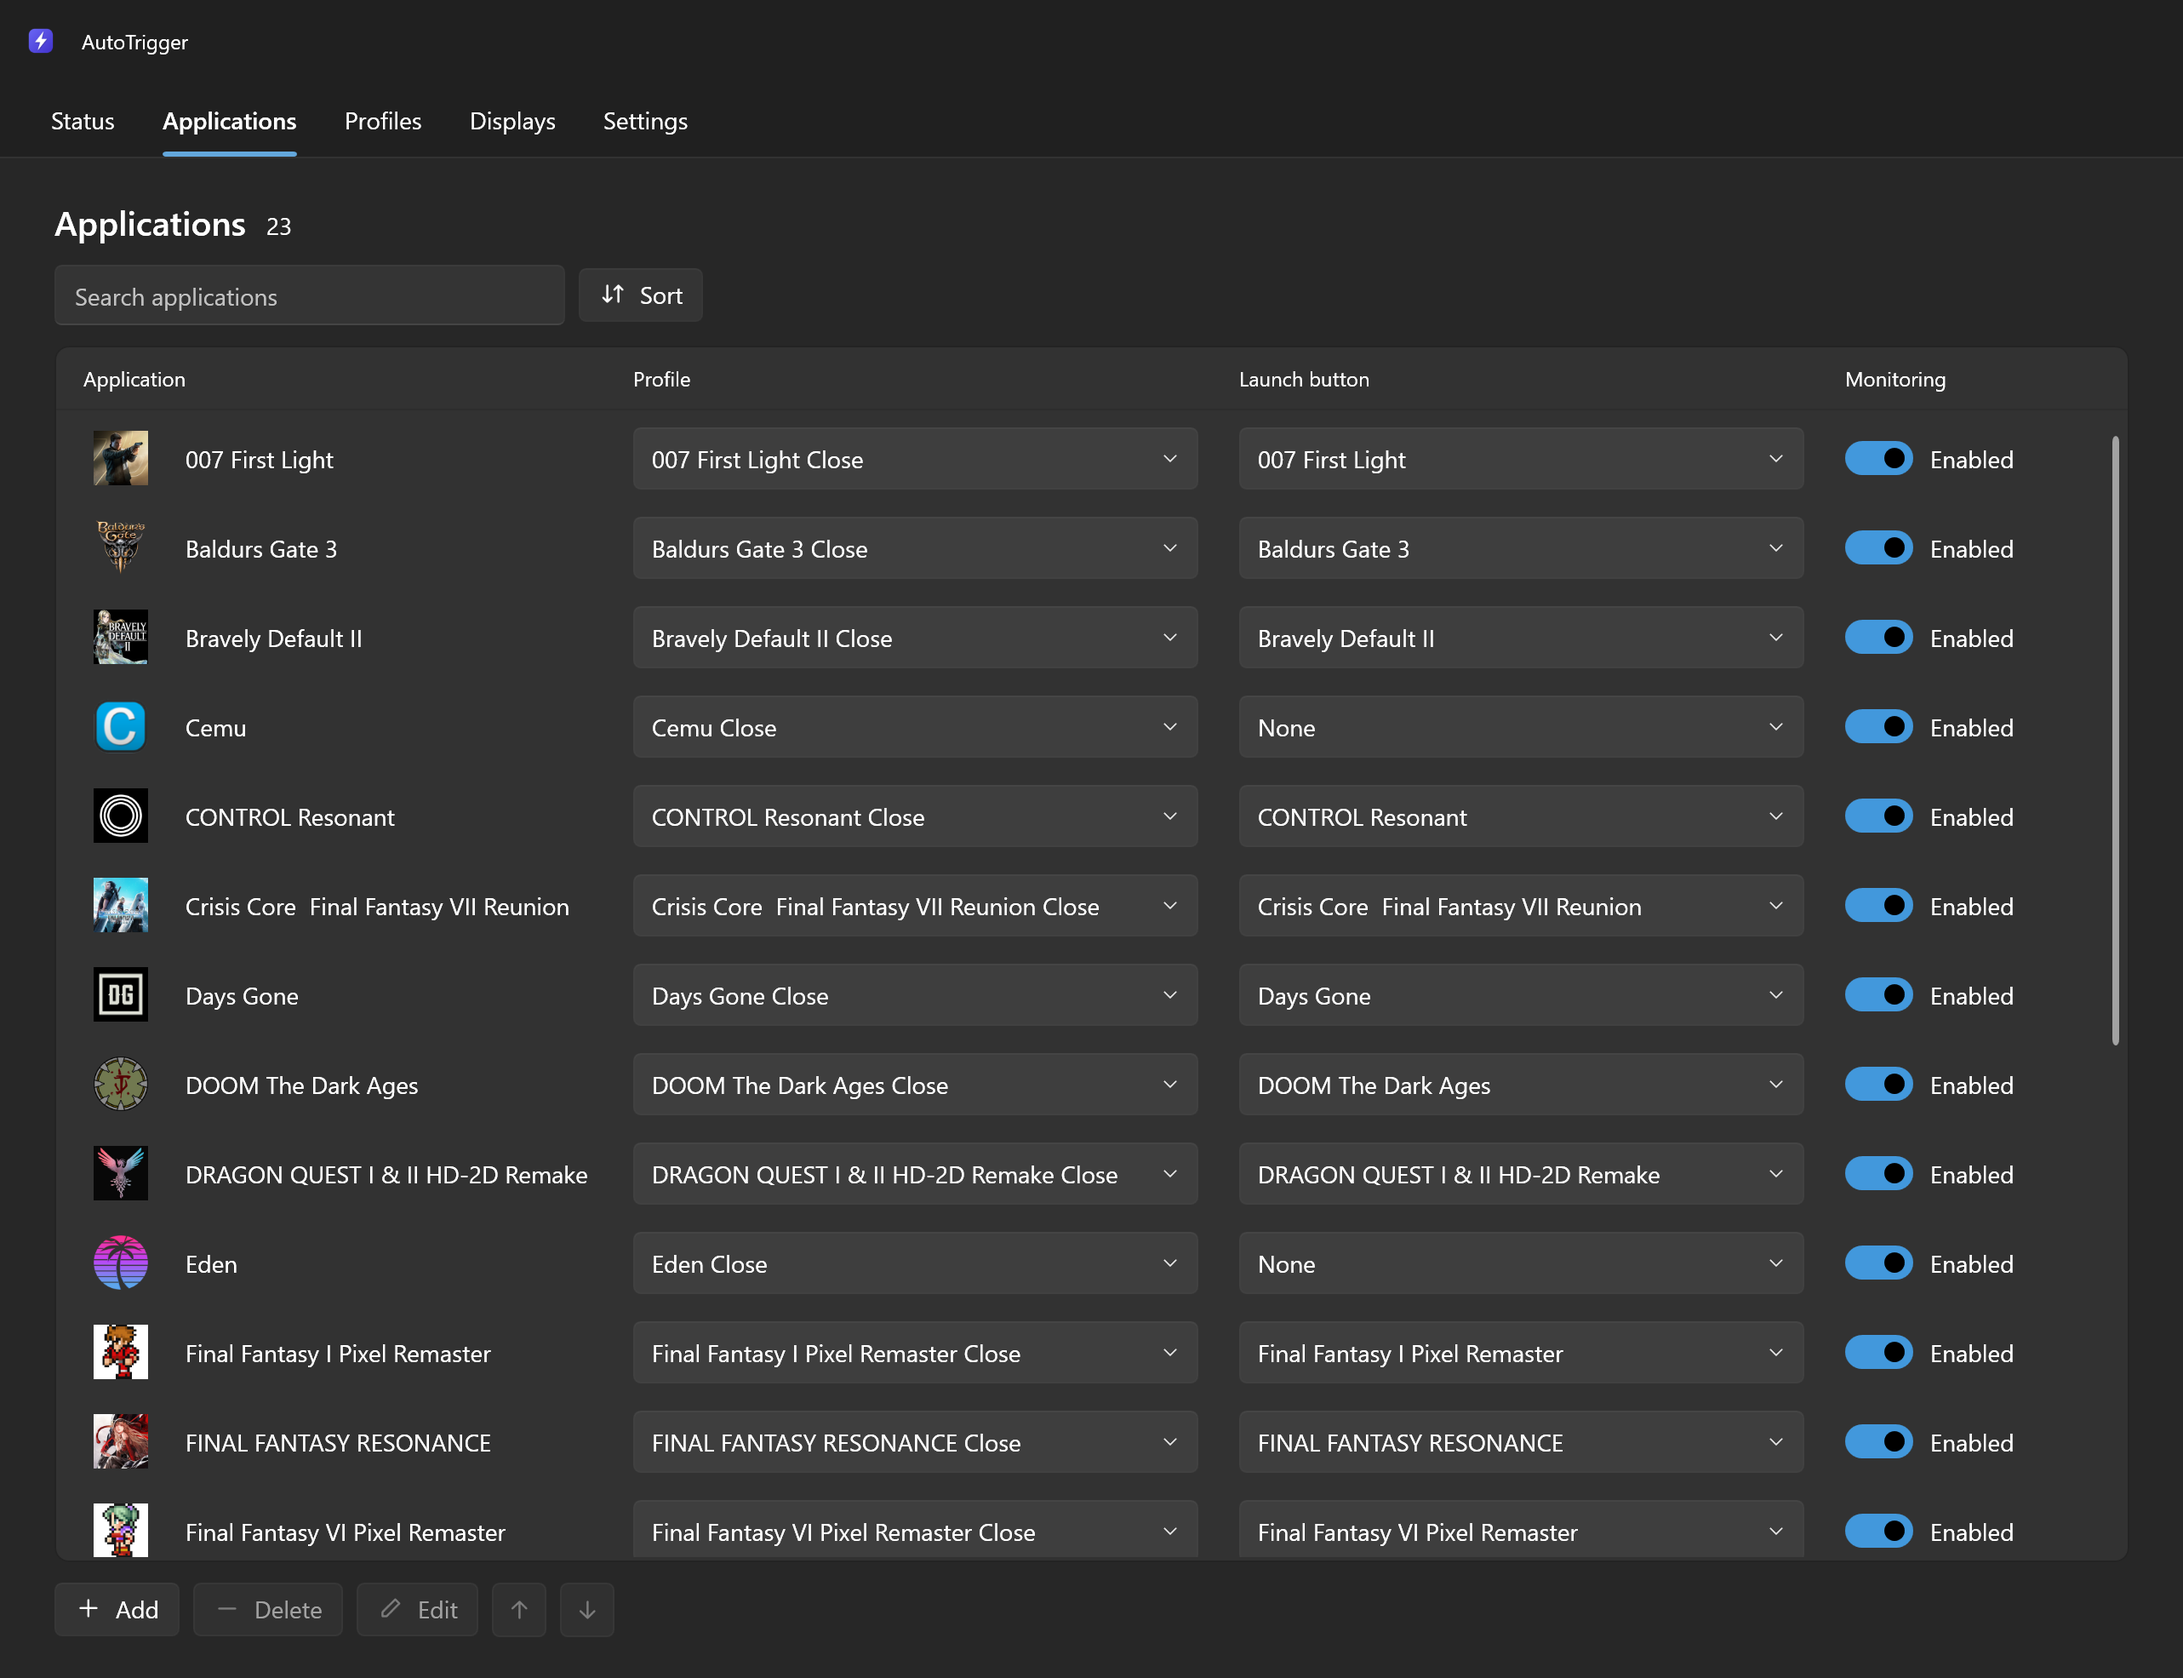
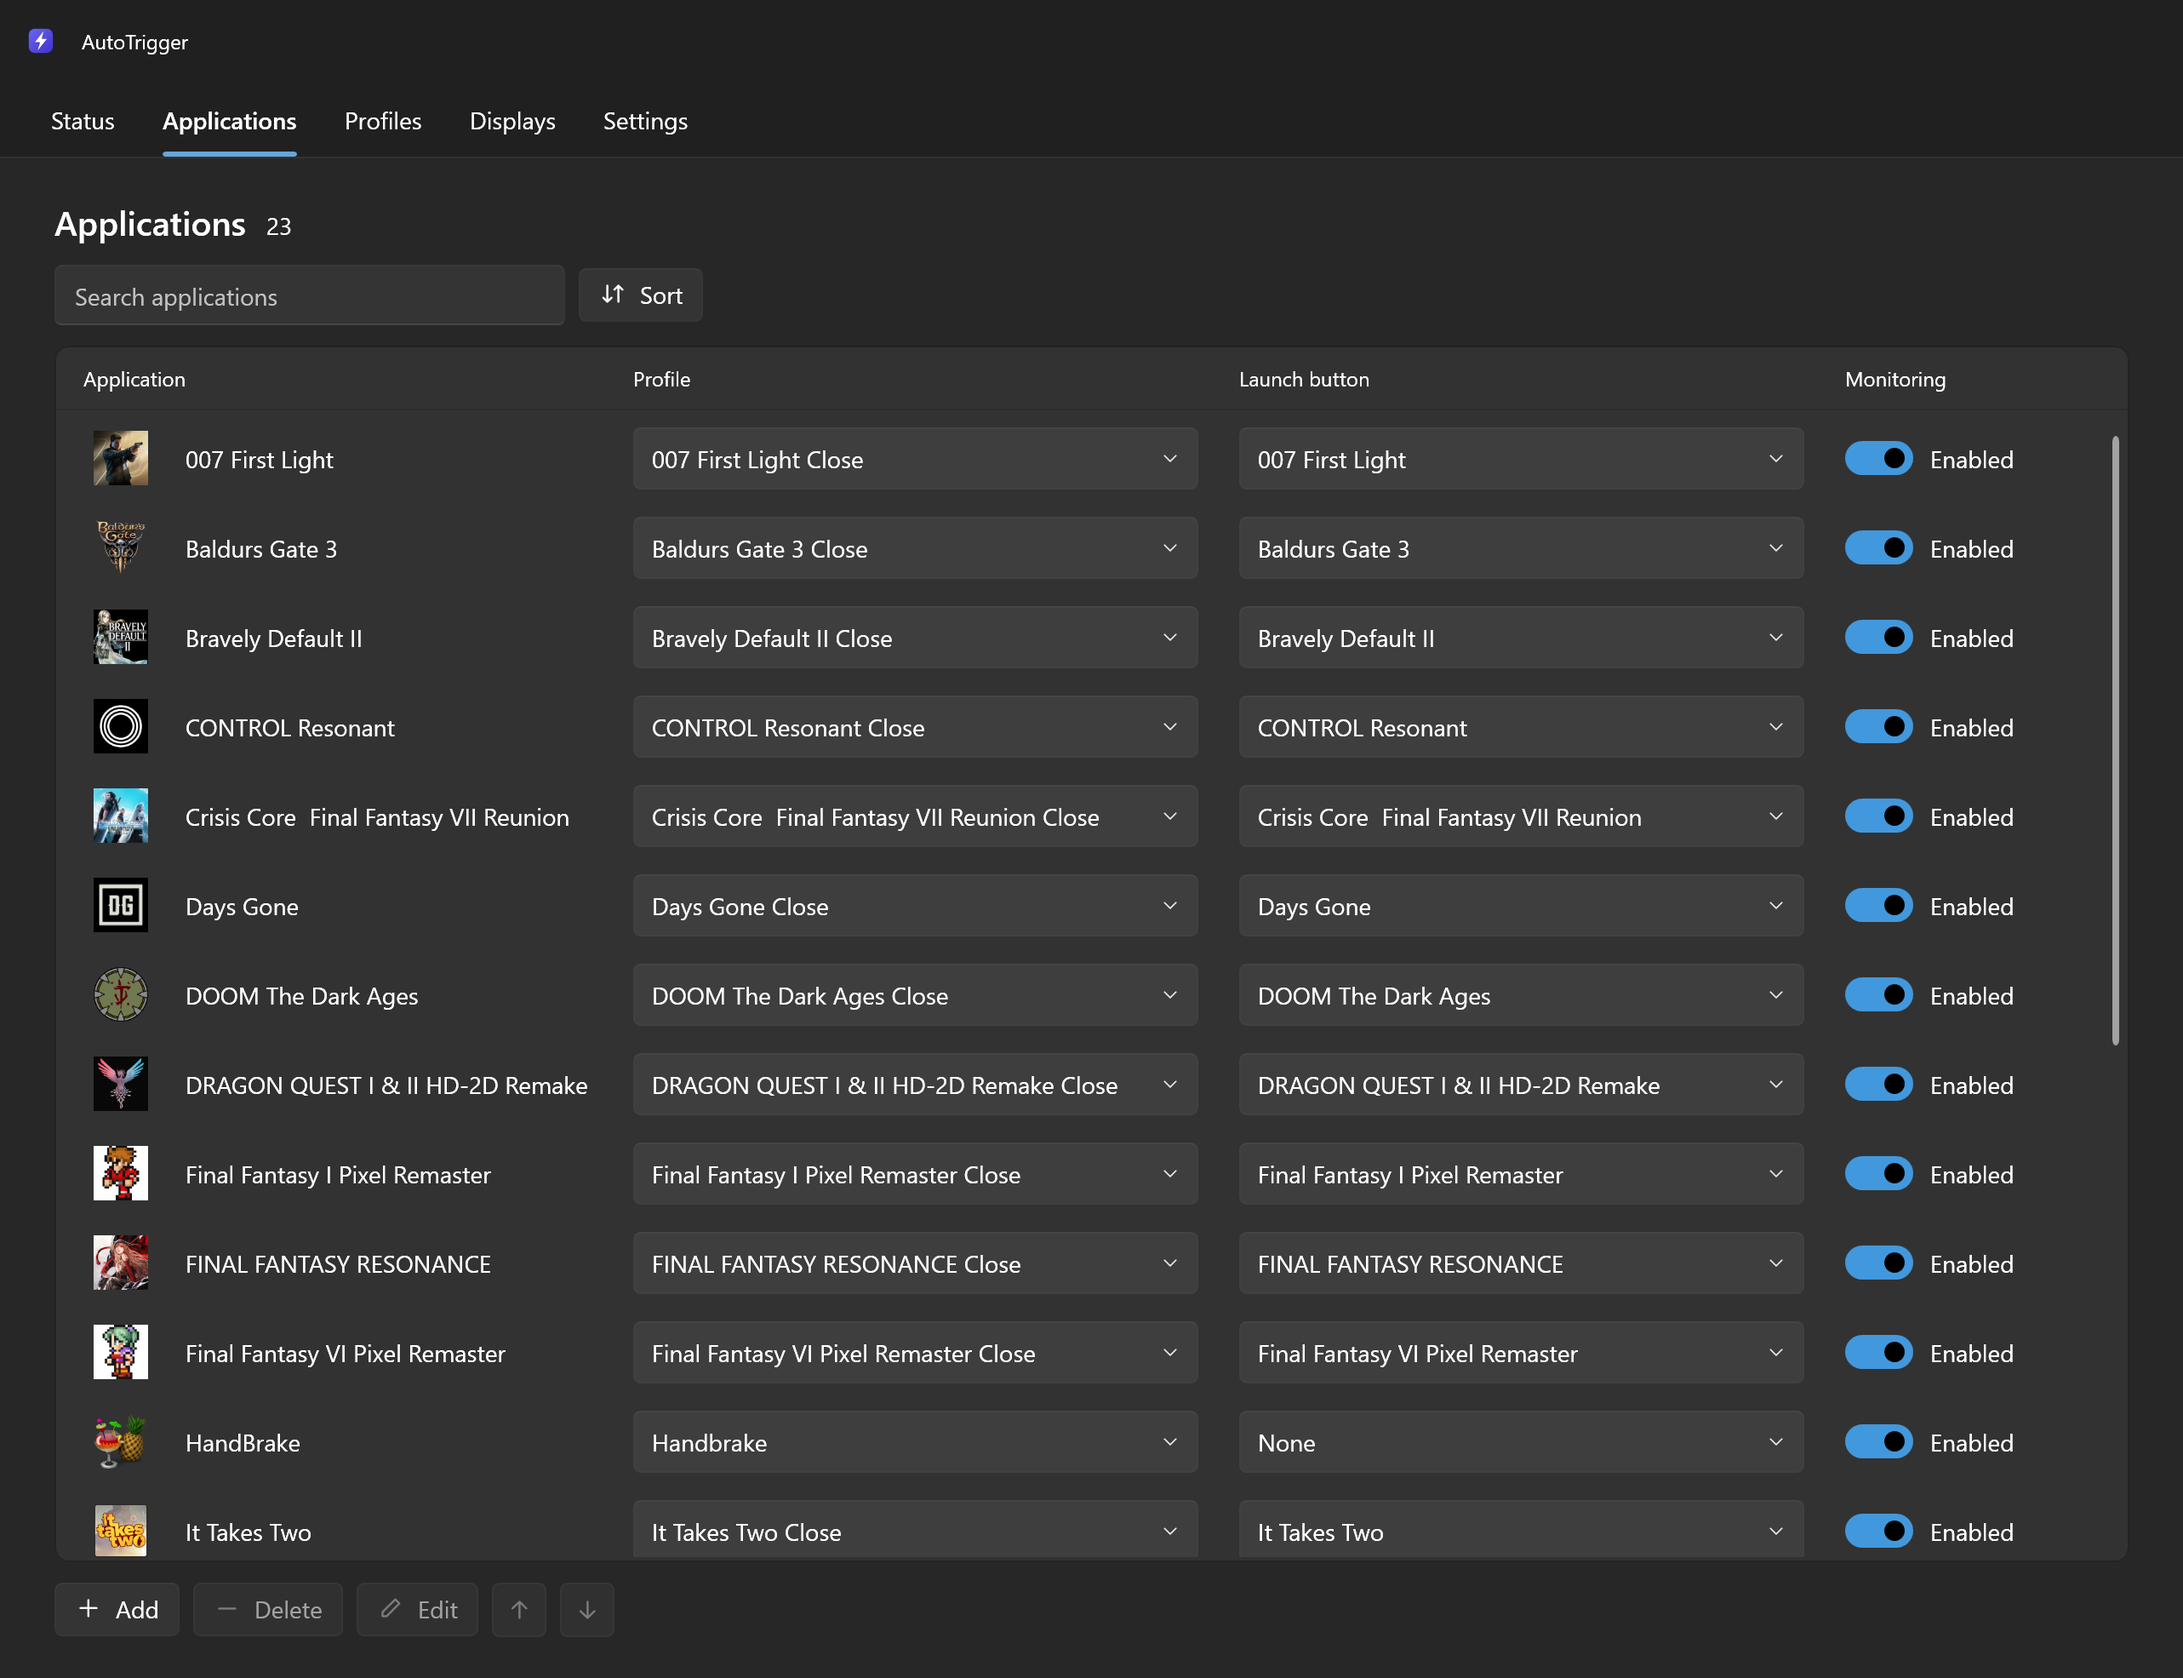
README: refresh screenshots and wording

diff --git a/README.md b/README.md
@@ -20,7 +20,7 @@ AutoTrigger is a free, open-source tray app that changes Windows settings when a
 - Change settings when an app gains the focus, and set them back when you switch to another window.
 - Press a keyboard shortcut of another app when a game starts, for example to switch a mode in an overlay or a recording app.
 - Run the actions of a profile on demand, from a keyboard shortcut, a desktop shortcut or the Status page, without waiting for an app to start.
-- Start a game from the Status page through a profile, for example an emulator with the game and the right display settings.
+- Start a game from the Status page through a profile, for example through its launcher, with the right display settings first.
 
 ## Features
 
@@ -106,7 +106,7 @@ Applications are matched by full path. Choose **File name only** when the folder
 
 ### Launch button
 
-The **Launch button** column, in Applications, sets what the Launch button of the Status page runs: **None**, no button; **Program**, the application's own program; or a profile, whose Started actions run as with its keyboard shortcut. A profile with a **Run program** action can start a game through its launcher, or an emulator with the game as argument. Applications added by hand start with None; imported applications and those of earlier versions start with Program.
+The **Launch button** column, in Applications, sets what the Launch button of the Status page runs: **None**, no button; **Program**, the application's own program; or a profile, whose Started actions run as with its keyboard shortcut. A profile with a **Run program** action can start a game through its launcher. Applications added by hand start with None; imported applications and those of earlier versions start with Program.
 
 Right-click an application on the Status page, then **Create desktop shortcut**: the shortcut runs what its Launch button runs, with the program's icon. For **Program**, it opens the program itself; for a profile, it calls `AutoTrigger.exe /launch`, so choosing another profile later needs no new shortcut. Creating it again replaces it; a shortcut of the same name that runs something else is kept, and the new one gets a number.
 
@@ -149,7 +149,7 @@ To uninstall, uncheck Start with Windows, choose Exit, then delete the AutoTrigg
 
 **Is this Windows Auto HDR?** No. Windows Auto HDR adds HDR to SDR games while HDR is already on. AutoTrigger turns HDR itself on and off, per game. Both can be used together.
 
-**Does it work with Steam, Epic Games, GOG, Game Pass or emulators?** Yes. AutoTrigger follows the game's own program, whatever launched it. For Game Pass games, choose **File name only**.
+**Does it work with Steam, Epic Games, GOG or Game Pass?** Yes. AutoTrigger follows the game's own program, whatever launched it. For Game Pass games, choose **File name only**.
 
 **Can I run a profile without waiting for an app to start?** Yes. Give the profile a keyboard shortcut, choose it as the **Launch button** of an application, or run `AutoTrigger.exe /started "Profile name"` or `/closed "Profile name"`, for example from a desktop shortcut. A **Run program** action in the profile can then start the program itself.
 
